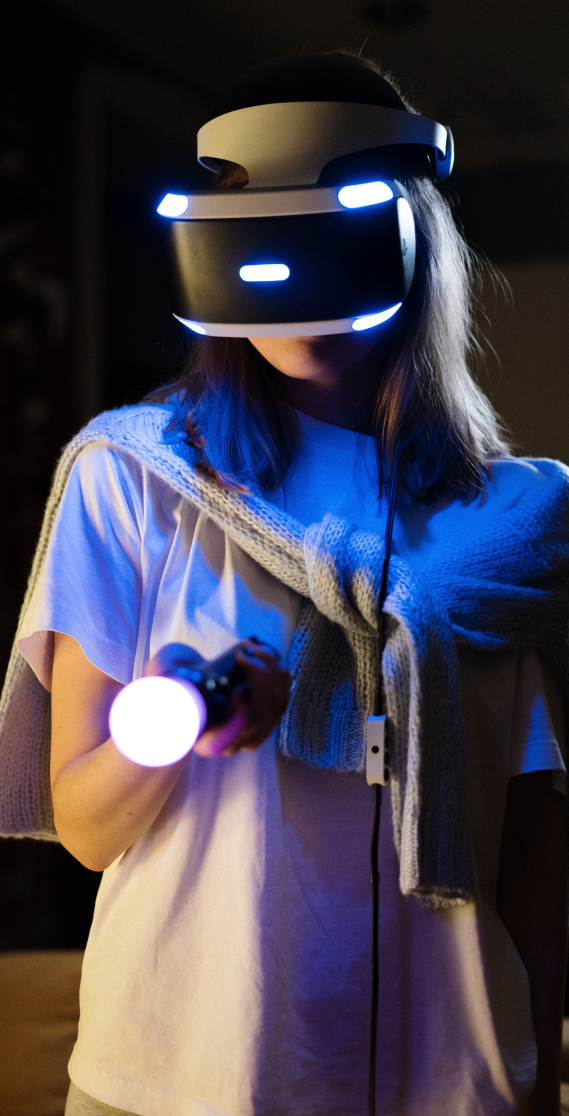
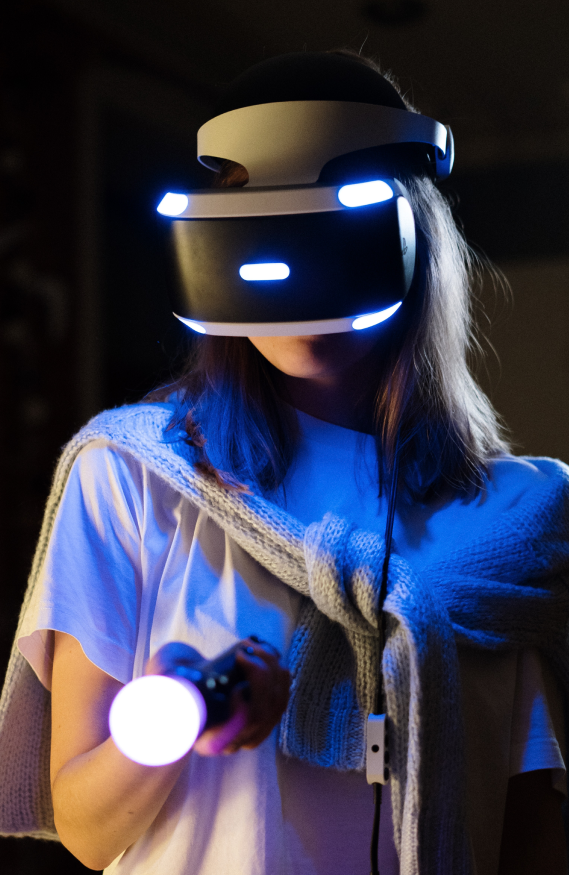
Correction image Meta et JV

diff --git a/style.css b/style.css
@@ -182,6 +182,12 @@ nav a{
     display: none;
 }
 
+/* meta */
+
+#Meta img{
+    width:25%;
+}
+
 /* footer */
 
 footer{
@@ -196,9 +202,14 @@ footer a{
 }
 
 
+/* media */
 
+/* intermédiaire */
 
 @media (max-width: 1300px){
+
+    /* généralité */
+
     .menu{
         display: none;
     }
@@ -208,9 +219,13 @@ footer a{
         justify-content: space-between;
     }
 
+    /* header */
+
     header img{
         width: 100%;
     }
+
+    /* JV */
 
     .imgord{
         display: none;
@@ -221,12 +236,16 @@ footer a{
         width: 50%;
     }
 
-
-
     #JV{
         flex-direction: column;
         align-items: center;
     }
+
+    /* meta */
+
+#Meta img{
+    width:50%;
+}
 }
 
 @media (max-width: 900px){
@@ -386,6 +405,12 @@ footer a{
     .imgp{
         display: none;
     }
+
+    /* meta */
+
+#Meta img{
+    width:50%;
+}
 
     /* footer */
 
